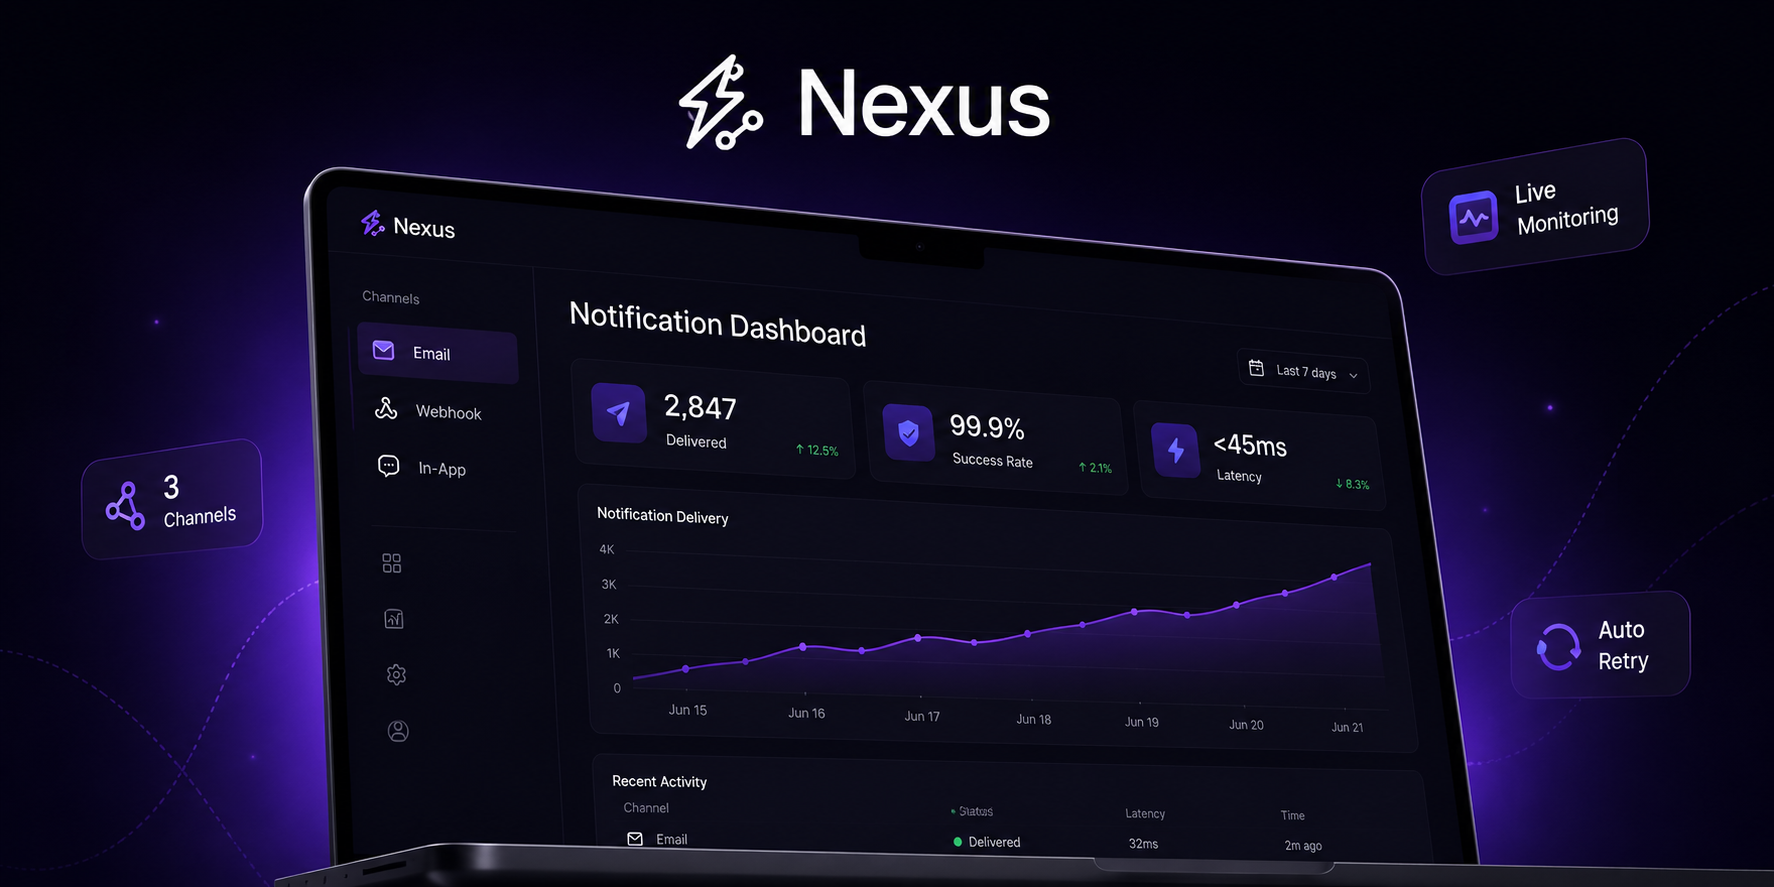
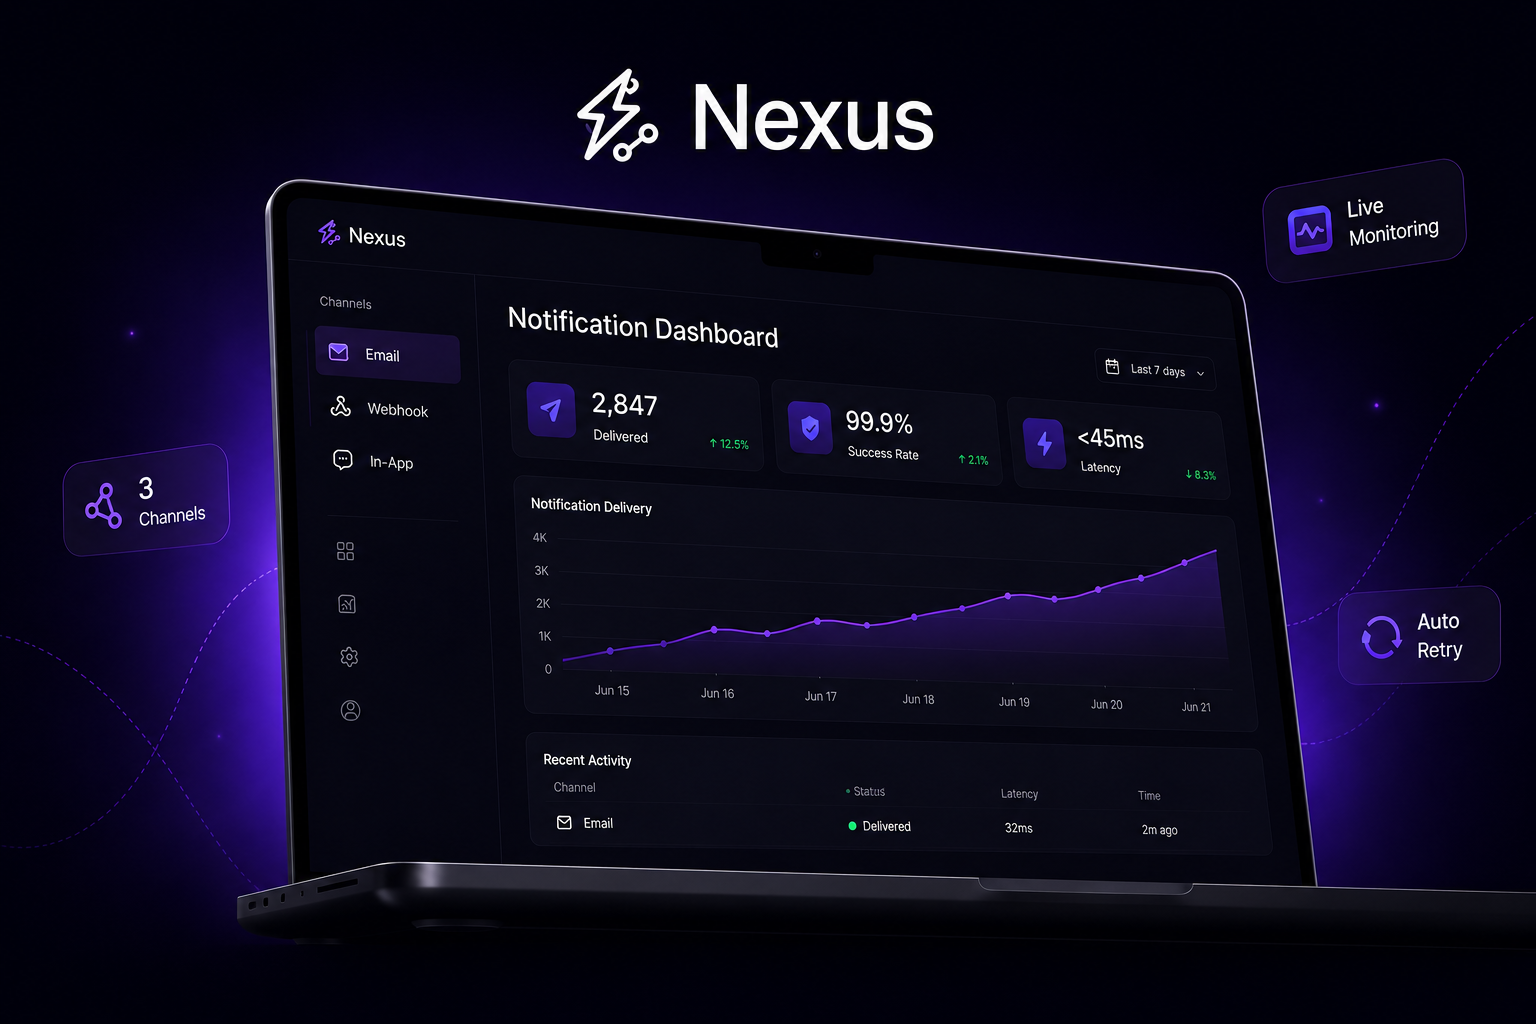
frontend updated

diff --git a/css/components.css b/css/components.css
@@ -643,15 +643,19 @@ margin-top: -30px;}
 .pcard-vis {
   position: relative;
   overflow: hidden;
+  border-radius: 12px;
+  align-self: center;
+  aspect-ratio: 1536 / 1024;
+  width: 100%;
 }
 
-/* Parallax wrapper — extends 8% beyond container for scroll travel */
+/* Base wrapper (removed 116% extension to prevent clipping) */
 .pcard-vis-inner {
   position: absolute;
-  inset: -8% 0;
-  height: 116%;
-  will-change: transform;
-  background: #0a0a0a; /* Prevent flashing of other elements */
+  inset: 0;
+  width: 100%;
+  height: 100%;
+  background: #0a0a0a;
 }
 
 .pcard-bg {
@@ -694,14 +698,14 @@ margin-top: -30px;}
   inset: 0;
   width: 100%;
   height: 100%;
+  padding: 0;
+  box-sizing: border-box;
   object-fit: cover;
-  transition: transform 0.9s var(--ease), opacity 0.4s ease;
+  object-position: center;
+  transition: opacity 0.4s ease;
   z-index: 1;
-  will-change: transform;
-  opacity: 0; /* Start invisible, fade in on load */
+  opacity: 0;
 }
-
-.pcard:hover .pcard-img { transform: scale(1.04); }
 
 .pcard-img-overlay {
   position: absolute;

diff --git a/js/animations.js b/js/animations.js
@@ -101,19 +101,7 @@ function initScrollTriggers() {
     );
   });
 
-  /* Parallax disabled on mobile to prevent jank */
-  if (!isMobile) {
-    gsap.utils.toArray('.js-parallax').forEach(el => {
-      gsap.fromTo(el,
-        { yPercent: -4 },
-        { yPercent: 4, ease: 'none',
-          scrollTrigger: {
-            trigger: el.closest('.pcard'),
-            start: 'top bottom', end: 'bottom top', scrub: 1.5,
-          } }
-      );
-    });
-  }
+  /* Parallax removed to prevent clipping and layout tear on exactly-sized banners */
 
   gsap.utils.toArray('.sc-card').forEach((el, i) => {
     gsap.fromTo(el,

diff --git a/index.html b/index.html
@@ -331,8 +331,8 @@
                 <span class="completed-badge"><span class="completed-dot"></span>Live</span>
               </div>
               <div class="pcard-mid">
-                <p class="pyear-sub">Freelance / Pixel &amp; Chai</p>
-                <h3 class="pname">Freelance Project</h3>
+                <p class="pyear-sub">Freelance</p>
+                <h3 class="pname">Pixel &amp; Chai</h3>
                 <p class="pdesc">Built a clean, responsive website for a design startup with a simple client-focused flow.</p>
                 <div class="tags">
                   <span class="tag">React</span>